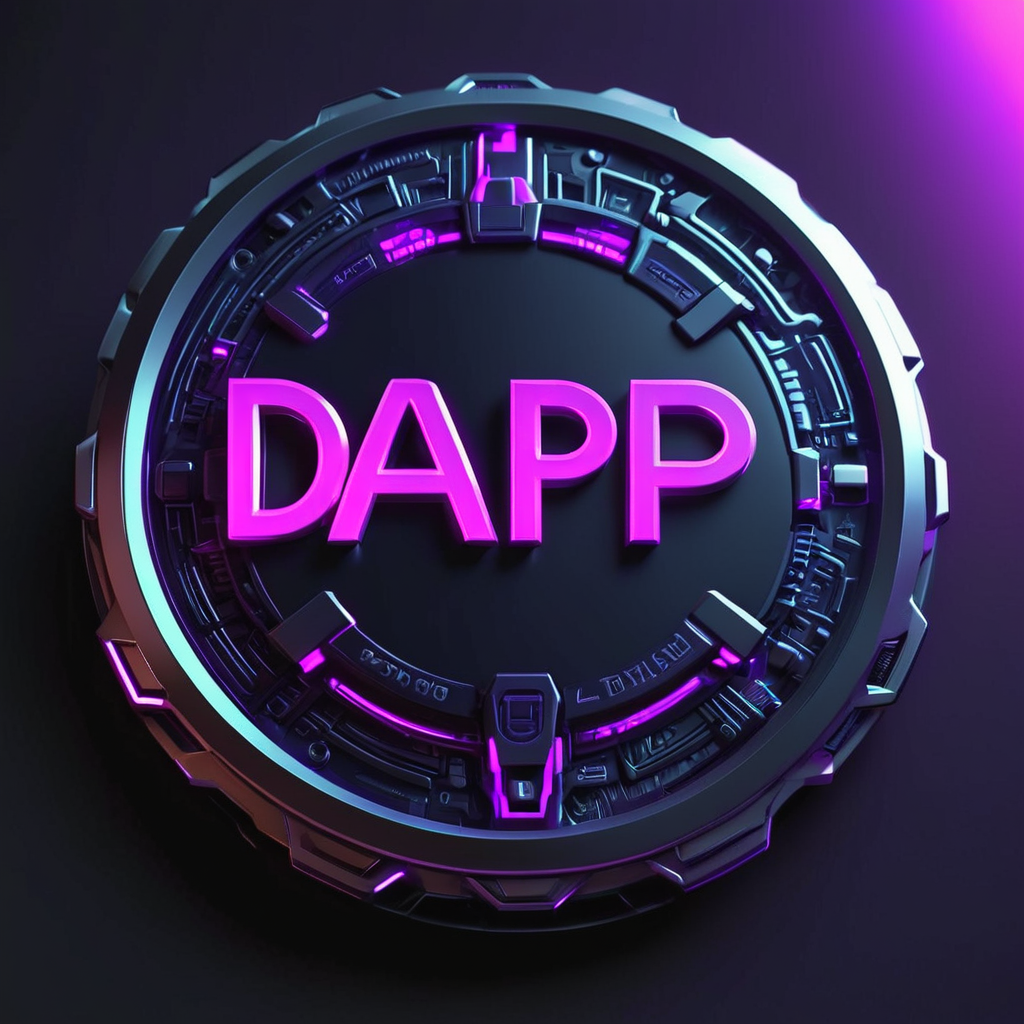
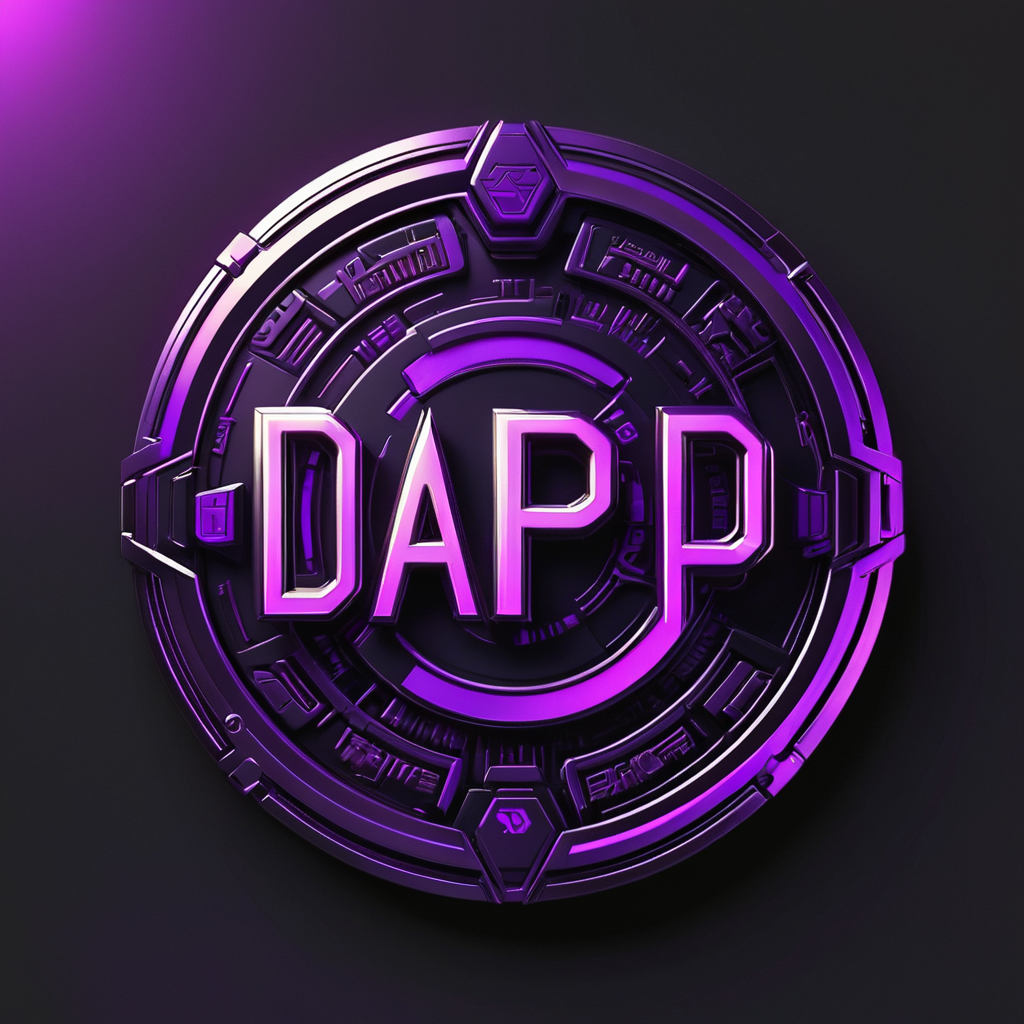
Modify images and connect to SC

diff --git a/src/controllers/AssignCompetenceController.js b/src/controllers/AssignCompetenceController.js
@@ -1,16 +1,20 @@
 import axios from "axios";
+import SoulboundNFT from "../contracts/SoulboundNFT.json";
+import { data } from "jquery";
 const JWT = process.env.REACT_APP_JWT;
+const contractAddress = "0xC1d2b725a73be07c60ca0eCe6F6F9e2F8511F476";
 
 const uploadToIpfs = async (comp) => {
   const compLevel = comp.competenceLevel;
   let imageUrl;
+  console.log("competence lvl in uploadToIpfs: ", compLevel);
   switch (compLevel) {
     case 1:
-      imageUrl = "ipfs/QmPS6jDAq9HejYYAQMYiXLFPnZSzbCy8jyWS2KbA7ZzxDh";
+      imageUrl = "ipfs/QmWoKxEKSX9qLaMhBR9HnHF8wdP4QyxtjEuRBy58965Qgy";
       console.log("lvl1- purple");
       break;
     case 2:
-      imageUrl = "ipfs/QmUynVNeXc2iJUbYVgFZxDngfJFJjZQ7oBXt5LrpQxLVRy";
+      imageUrl = "ipfs/QmXKnqDyJfurosNKDcvT5djer4BLbHVL5PUrFYJq2a5DTA";
       console.log("lvl2 - blue");
       break;
     case 3:
@@ -62,12 +66,48 @@ const uploadToIpfs = async (comp) => {
       }
     );
     console.log(res.data);
+    return res.data.IpfsHash;
   } catch (error) {
     console.log(error);
   }
 };
 
-export const assignCompetence = async (comp) => {
-  // await uploadToIpfs(comp);
+export const assignCompetence = async (comp, web3) => {
+  //ovde moraju da se odrede objekti i provera da li postoji vec izdat
 
+  if (comp.competenceLevel && comp.metamaskAccount && web3) {
+    const tokenURI = await uploadToIpfs(comp);
+    console.log(tokenURI);
+
+    const account = sessionStorage.getItem("eth_account");
+    console.log("eth_account in assignCompetence: ", account);
+
+    if (tokenURI && account) {
+      //izdvoj u posebnu fju?
+      try {
+        const contract = new web3.eth.Contract(
+          SoulboundNFT.abi,
+          contractAddress
+        );
+
+        const transactionParameters = { //validacija podataka?
+          to: contractAddress,
+          from: account,
+          data: contract.methods
+            .mintNFT(tokenURI, comp.metamaskAccount, 0, comp.competenceLevel)
+            .encodeABI(),
+        };
+
+        const txHash = await window.ethereum.request({
+          method: "eth_sendTransaction",
+          params: [transactionParameters],
+        });
+        console.log("Transaction hash: ", txHash);
+        //if(txHash) return true ?
+      } catch (error) {
+        console.log("Error sending transaction: ", error);
+      }
+    }
+  }
+  console.log("Assign competence arguments are falsy"); //return false; ?
 };

diff --git a/src/components/LoginPage.jsx b/src/components/LoginPage.jsx
@@ -1,17 +1,13 @@
 import React, { useEffect, useState } from "react";
-import Web3 from "web3";
 import style from "./LoginPage.module.css";
 import photo from "../images/MetaMask_Fox.svg.png";
 import { useAppContext } from "../AppContext";
 import { addMetamaskListener } from "../controllers/AddAccountListenersController";
-
-const sepoliaRPCUrl =
-  "https://sepolia.infura.io/v3/22db25488a504c54b022c84cd9e9eca8";
+import Web3 from "web3";
 
 const LoginPage = () => {
   const { logInUser } = useAppContext();
 
-  const [web3, setWeb3] = useState(null);
   const [account, setAccount] = useState(null);
 
   const connectWallet = async () => {
@@ -20,10 +16,14 @@ const LoginPage = () => {
         const accounts = await window.ethereum.request({
           method: "eth_requestAccounts",
         });
-        setAccount(accounts[0]);
-        console.log("Connected to Ethereum account: ", accounts[0]);
-        logInUser(accounts[0]);
-        setAccount(addMetamaskListener(logInUser))
+        const originalAddress = accounts[0];
+        const web3 = new Web3(window.ethereum);
+        const checksumAddress = web3.utils.toChecksumAddress(originalAddress);
+        console.log("Connected to Ethereum account: ", checksumAddress);
+        setAccount(checksumAddress);
+        logInUser(checksumAddress);
+     
+        setAccount(addMetamaskListener(logInUser));
       } else {
         console.log("MetaMask is not installed.");
       }
@@ -31,12 +31,6 @@ const LoginPage = () => {
       console.error("Error connecting to MetaMask: ", error);
     }
   };
-
-  useEffect(() => {
-    const web3Instance = new Web3(sepoliaRPCUrl);
-    console.log(web3Instance);
-    setWeb3(web3Instance);
-  }, []);
 
   return (
     <div className={style.container}>

diff --git a/src/components/AssignCompteneceModal.jsx b/src/components/AssignCompteneceModal.jsx
@@ -1,14 +1,16 @@
 import React, { useEffect, useState } from "react";
 import comps from "../static/competences.json";
 import { assignCompetence } from "../controllers/AssignCompetenceController";
+import Web3 from "web3";
 
-const contractAddress = "0xC1d2b725a73be07c60ca0eCe6F6F9e2F8511F476";
-const sepoliaRPCUrl = "https://sepolia.infura.io/v3/e2d17050f550446dad42f6bab853f289";
+const sepoliaRPCUrl =
+  "https://sepolia.infura.io/v3/e2d17050f550446dad42f6bab853f289";
 
 function AssignCompteneceModal() {
   const [competences, setCompetences] = useState([]);
   const [selectedComptenece, setSelectedCompetence] = useState();
-
+  const [web3, setWeb3] = useState();
+  
   const [data, setData] = useState({
     name: "",
     surname: "",
@@ -23,10 +25,16 @@ function AssignCompteneceModal() {
     competenceLevel: 0,
   });
 
+  useEffect(() => {
+    const web3Instance = new Web3(sepoliaRPCUrl);
+    console.log(web3Instance);
+    setWeb3(web3Instance);
+  }, []);
+
   const fetchCompetences = () => {
     setCompetences(comps);
   };
-
+  
   useEffect(() => {
     fetchCompetences();
   }, []);
@@ -51,11 +59,15 @@ function AssignCompteneceModal() {
     setData({ ...data, competenceLevel: level });
   };
 
+  useEffect(() => {
+    if (data.competenceLevel) {
+      assignCompetence(data, web3);
+    }
+  }, [data.competenceLevel, web3]);
+  
   const handleFormSubmit = (e) => {
     e.preventDefault();
     calculateCompetencelevel();
-    console.log(data);
-    assignCompetence(data);
   };
 
   const handleInputChange = (e) => {
